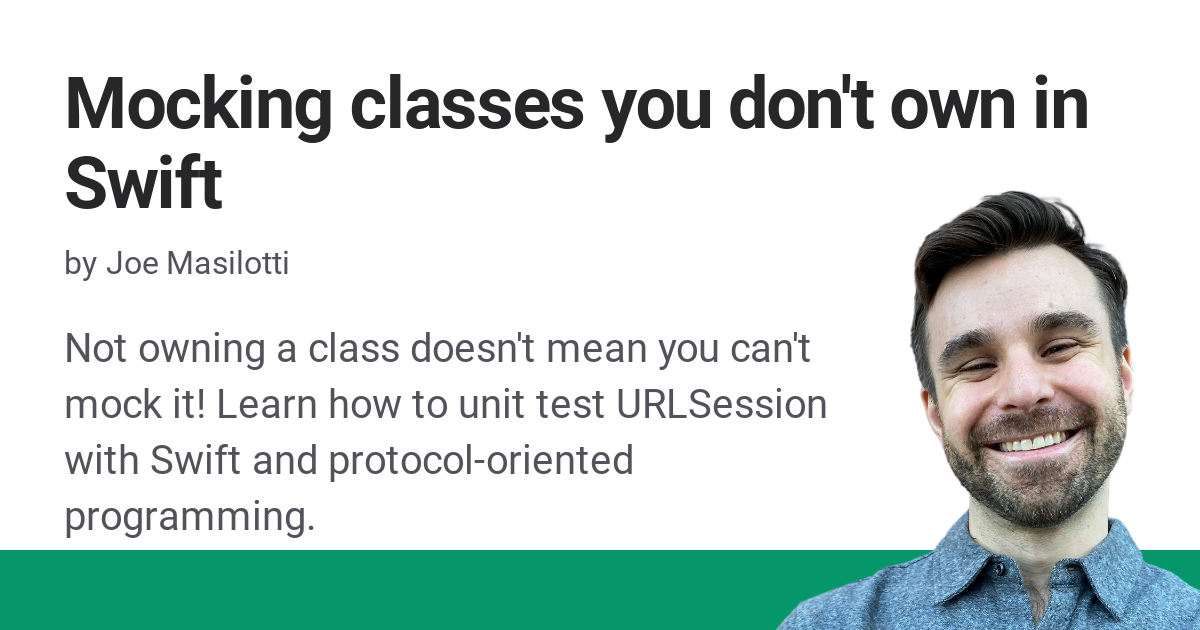
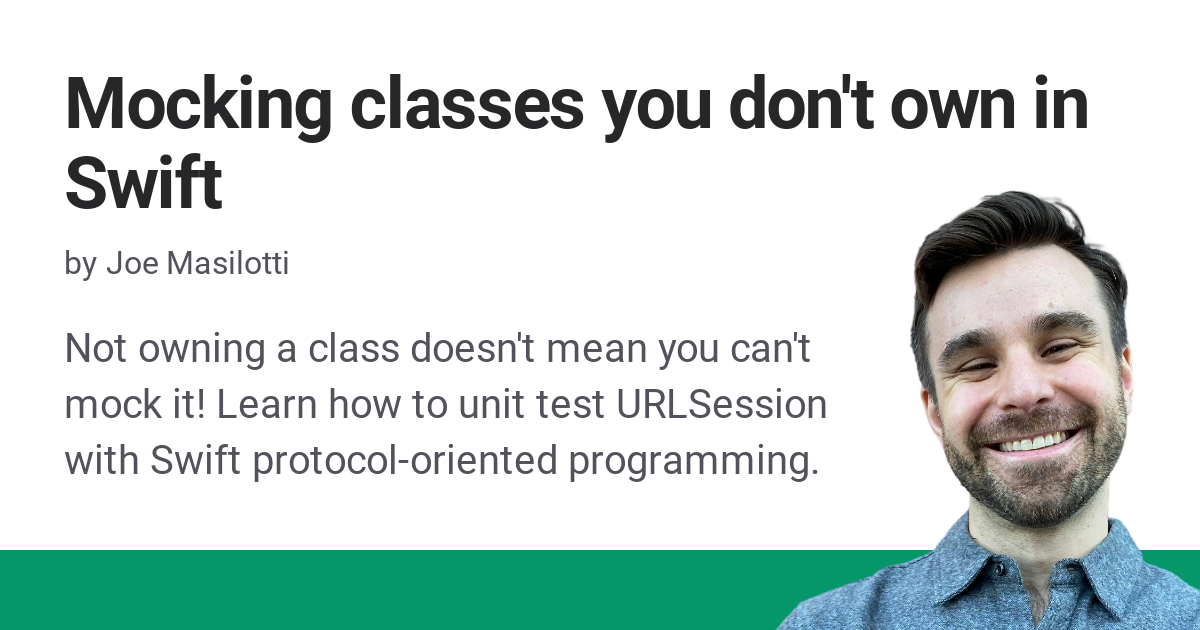
Tweak or customize some OG images

Changed region(s): [[0.2158, 0.6937, 0.6783, 0.754], [0.0308, 0.7841, 0.2775, 0.8444]]

diff --git a/src/_posts/2022-04-18-ruby-on-rails-podcast.md b/src/_posts/2022-04-18-ruby-on-rails-podcast.md
@@ -7,6 +7,11 @@ description: |
   bit about my upcoming workshop.
 permalink: /ruby-on-rails-podcast/
 
+previewify_title: 🎙 Guest on the Ruby on Rails podcast
+previewify_description: |
+  Brittany and I talked about building RailsDevs in public and my upcoming Turbo
+  Native workshop.
+
 ---
 
 Last week I had the pleasure of joining Brittany Martin and Brian Mariani on The Ruby on Rails podcast. We covered building RailsDevs in public, some challenges I've been facing, and a few technical decisions I'm proud of.

diff --git a/src/_posts/2015-08-03-ui-testing-tdd.md b/src/_posts/2015-08-03-ui-testing-tdd.md
@@ -6,6 +6,8 @@ description: |
   assertions make for a great TDD experience on iOS.
 permalink: /ui-testing-tdd/
 
+previewify_title: 3 ways UI Testing just made TDD even better
+
 ---
 
 With every Xcode UI Testing is getting better. As of Xcode 12, UI Testing has become my go-to feature testing framework on iOS. Combined with XCTest for unit testing, it's becoming easier to not have to rely on any third-party frameworks. The three big reasons UI Testing offers a huge improvement to TDD on iOS are:

diff --git a/src/_posts/2020-09-08-tailwind-css-everywhere-and-a-new-masilotti.com-product.md b/src/_posts/2020-09-08-tailwind-css-everywhere-and-a-new-masilotti.com-product.md
@@ -7,6 +7,10 @@ description: |
   busy.
 permalink: /tailwind-css-and-mugshot-bot/
 
+previewify_description: |
+  It's been a busy month! I've gone all in on Tailwind CSS, launched a new
+  product, and started building a newsletter.
+
 ---
 
 It’s been a busy month! I’ve gone all in on Tailwind CSS, launched a new product, and started building a newsletter. Here’s what’s been keeping me busy.

diff --git a/src/_posts/2022-07-26-favorite-podcasts.md b/src/_posts/2022-07-26-favorite-podcasts.md
@@ -6,6 +6,8 @@ description: |
   bootstrapping.
 permalink: /favorite-podcasts/
 
+image: /images/og/custom/favorite-podcasts.png
+
 ---
 
 My favorite thing about Monday morning is the awesome list of podcasts I get to listen to!

diff --git a/src/_posts/2022-01-05-idea-to-sold-in-14-months.md b/src/_posts/2022-01-05-idea-to-sold-in-14-months.md
@@ -7,6 +7,7 @@ description: |
   all went down.
 permalink: /idea-to-sold-in-14-months/
 
+image: /images/og/custom/idea-to-sold-in-14-months.png
 favorite: true
 index: 2
 
